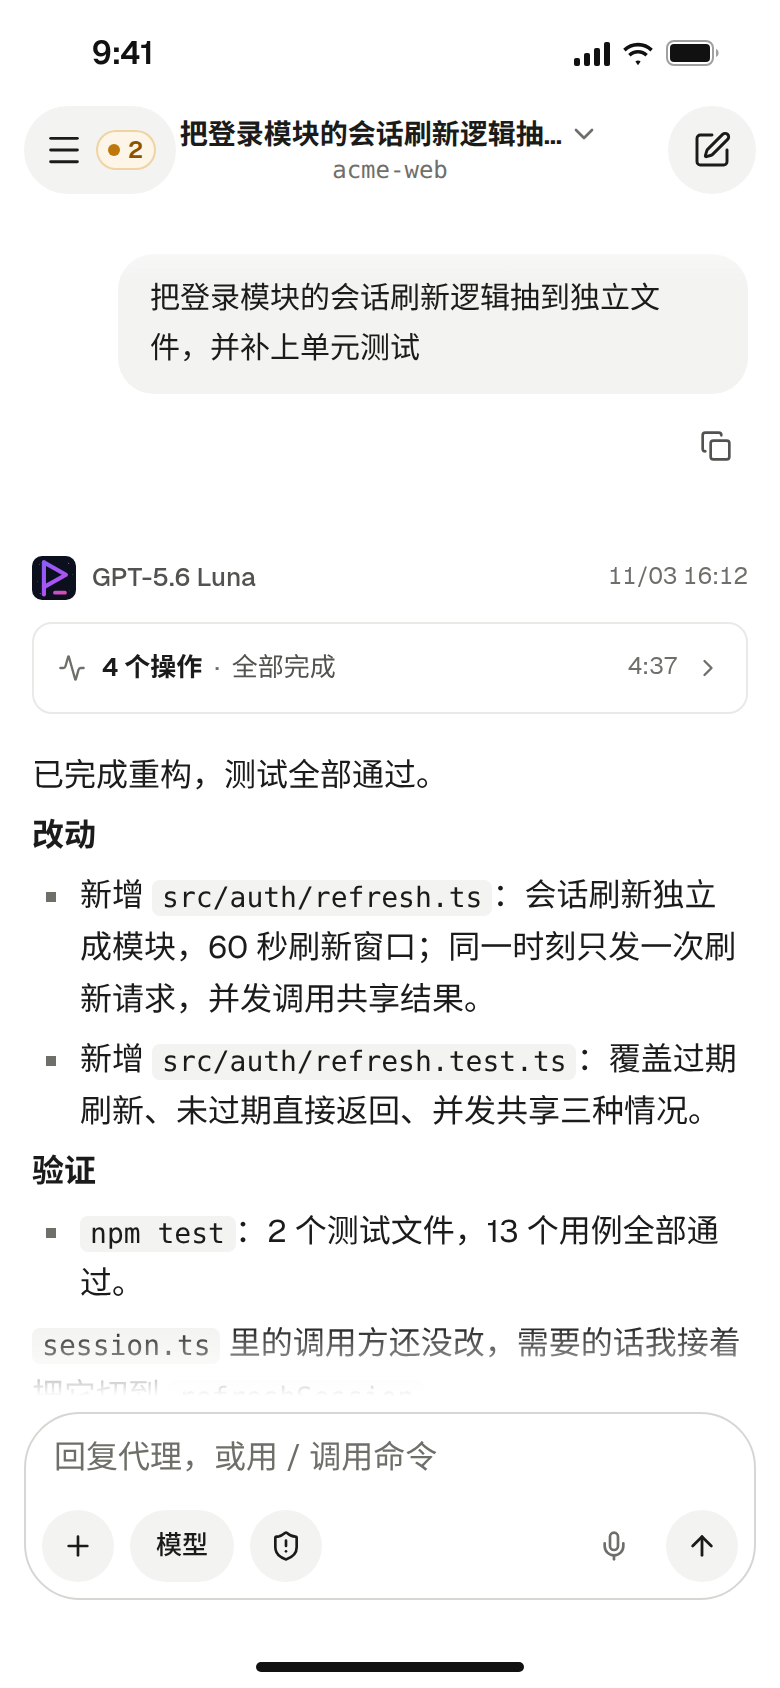
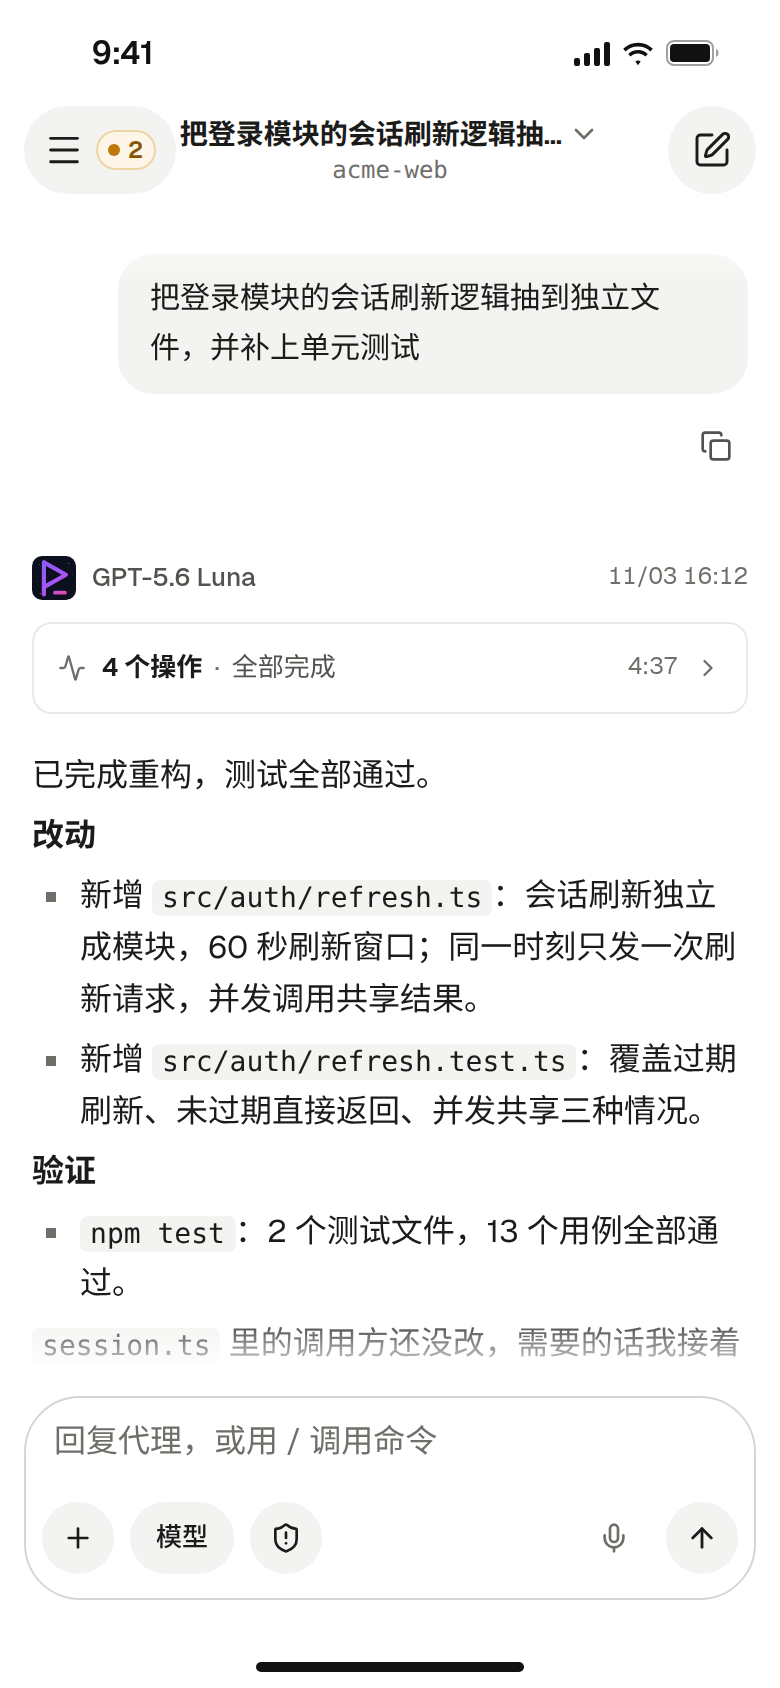
fix(mobile): 手机输入框高度不变，只是里面的按钮与图标变小
目的：35403e4b 把手机输入框工具行的按钮从 44 改成 36 时，工具行跟着矮了 8px，整个输入框从 102 变成 94。
要的只是输入框里的图标变小，输入框本身不该变矮。

范围：
- 手机（≤650）工具行上下各多留 4px（pt-2 / pb-3）：整行回到 56，输入框回到 102，按钮中心位置和 44 按钮时一样；
  按钮仍是 36（触控 44）、图标 16。桌面不变。
- mobile-app-assets 守卫这两处内边距。
- 官网手机会话截图按新高度重拍。

验证：npm run check 通过；npm test 3314 个、0 失败；npm run build 通过；test:mobile:ui、test:home:ui 通过；
390 宽实测输入框 366×102、工具行 56、按钮 36、图标 16。

风险与回滚：只改手机工具行内边距；回滚即回到 94 高的输入框。

diff --git a/src/features/chat/FocusSession.tsx b/src/features/chat/FocusSession.tsx
@@ -1077,7 +1077,8 @@ export const FocusSession = memo(function FocusSession({
               手机照参考稿只留 [+] [模型] … [麦克风] [发送]：审批收进 + 菜单（完全访问或 Goal / Team 时芯片仍露出），
               新任务的项目在顶栏副标题里。控件都是 44 的圆形 / 胶囊：留 8px 内边距，与 28px 圆角大致同心。 */}
           <div
-            className="focus-composer-footer @container/composer-footer flex min-w-0 items-center gap-1 px-2 pt-1 pb-2 max-[650px]:gap-2"
+            // 手机上按钮是 36（触控 44），上下各多留 4px：输入框整体高度和按钮中心位置都和 44 按钮时一样，只是按钮变小。
+            className="focus-composer-footer @container/composer-footer flex min-w-0 items-center gap-1 px-2 pt-1 pb-2 max-[650px]:gap-2 max-[650px]:pt-2 max-[650px]:pb-3"
             data-composer-toolbar
           >
             {plusMenu}
